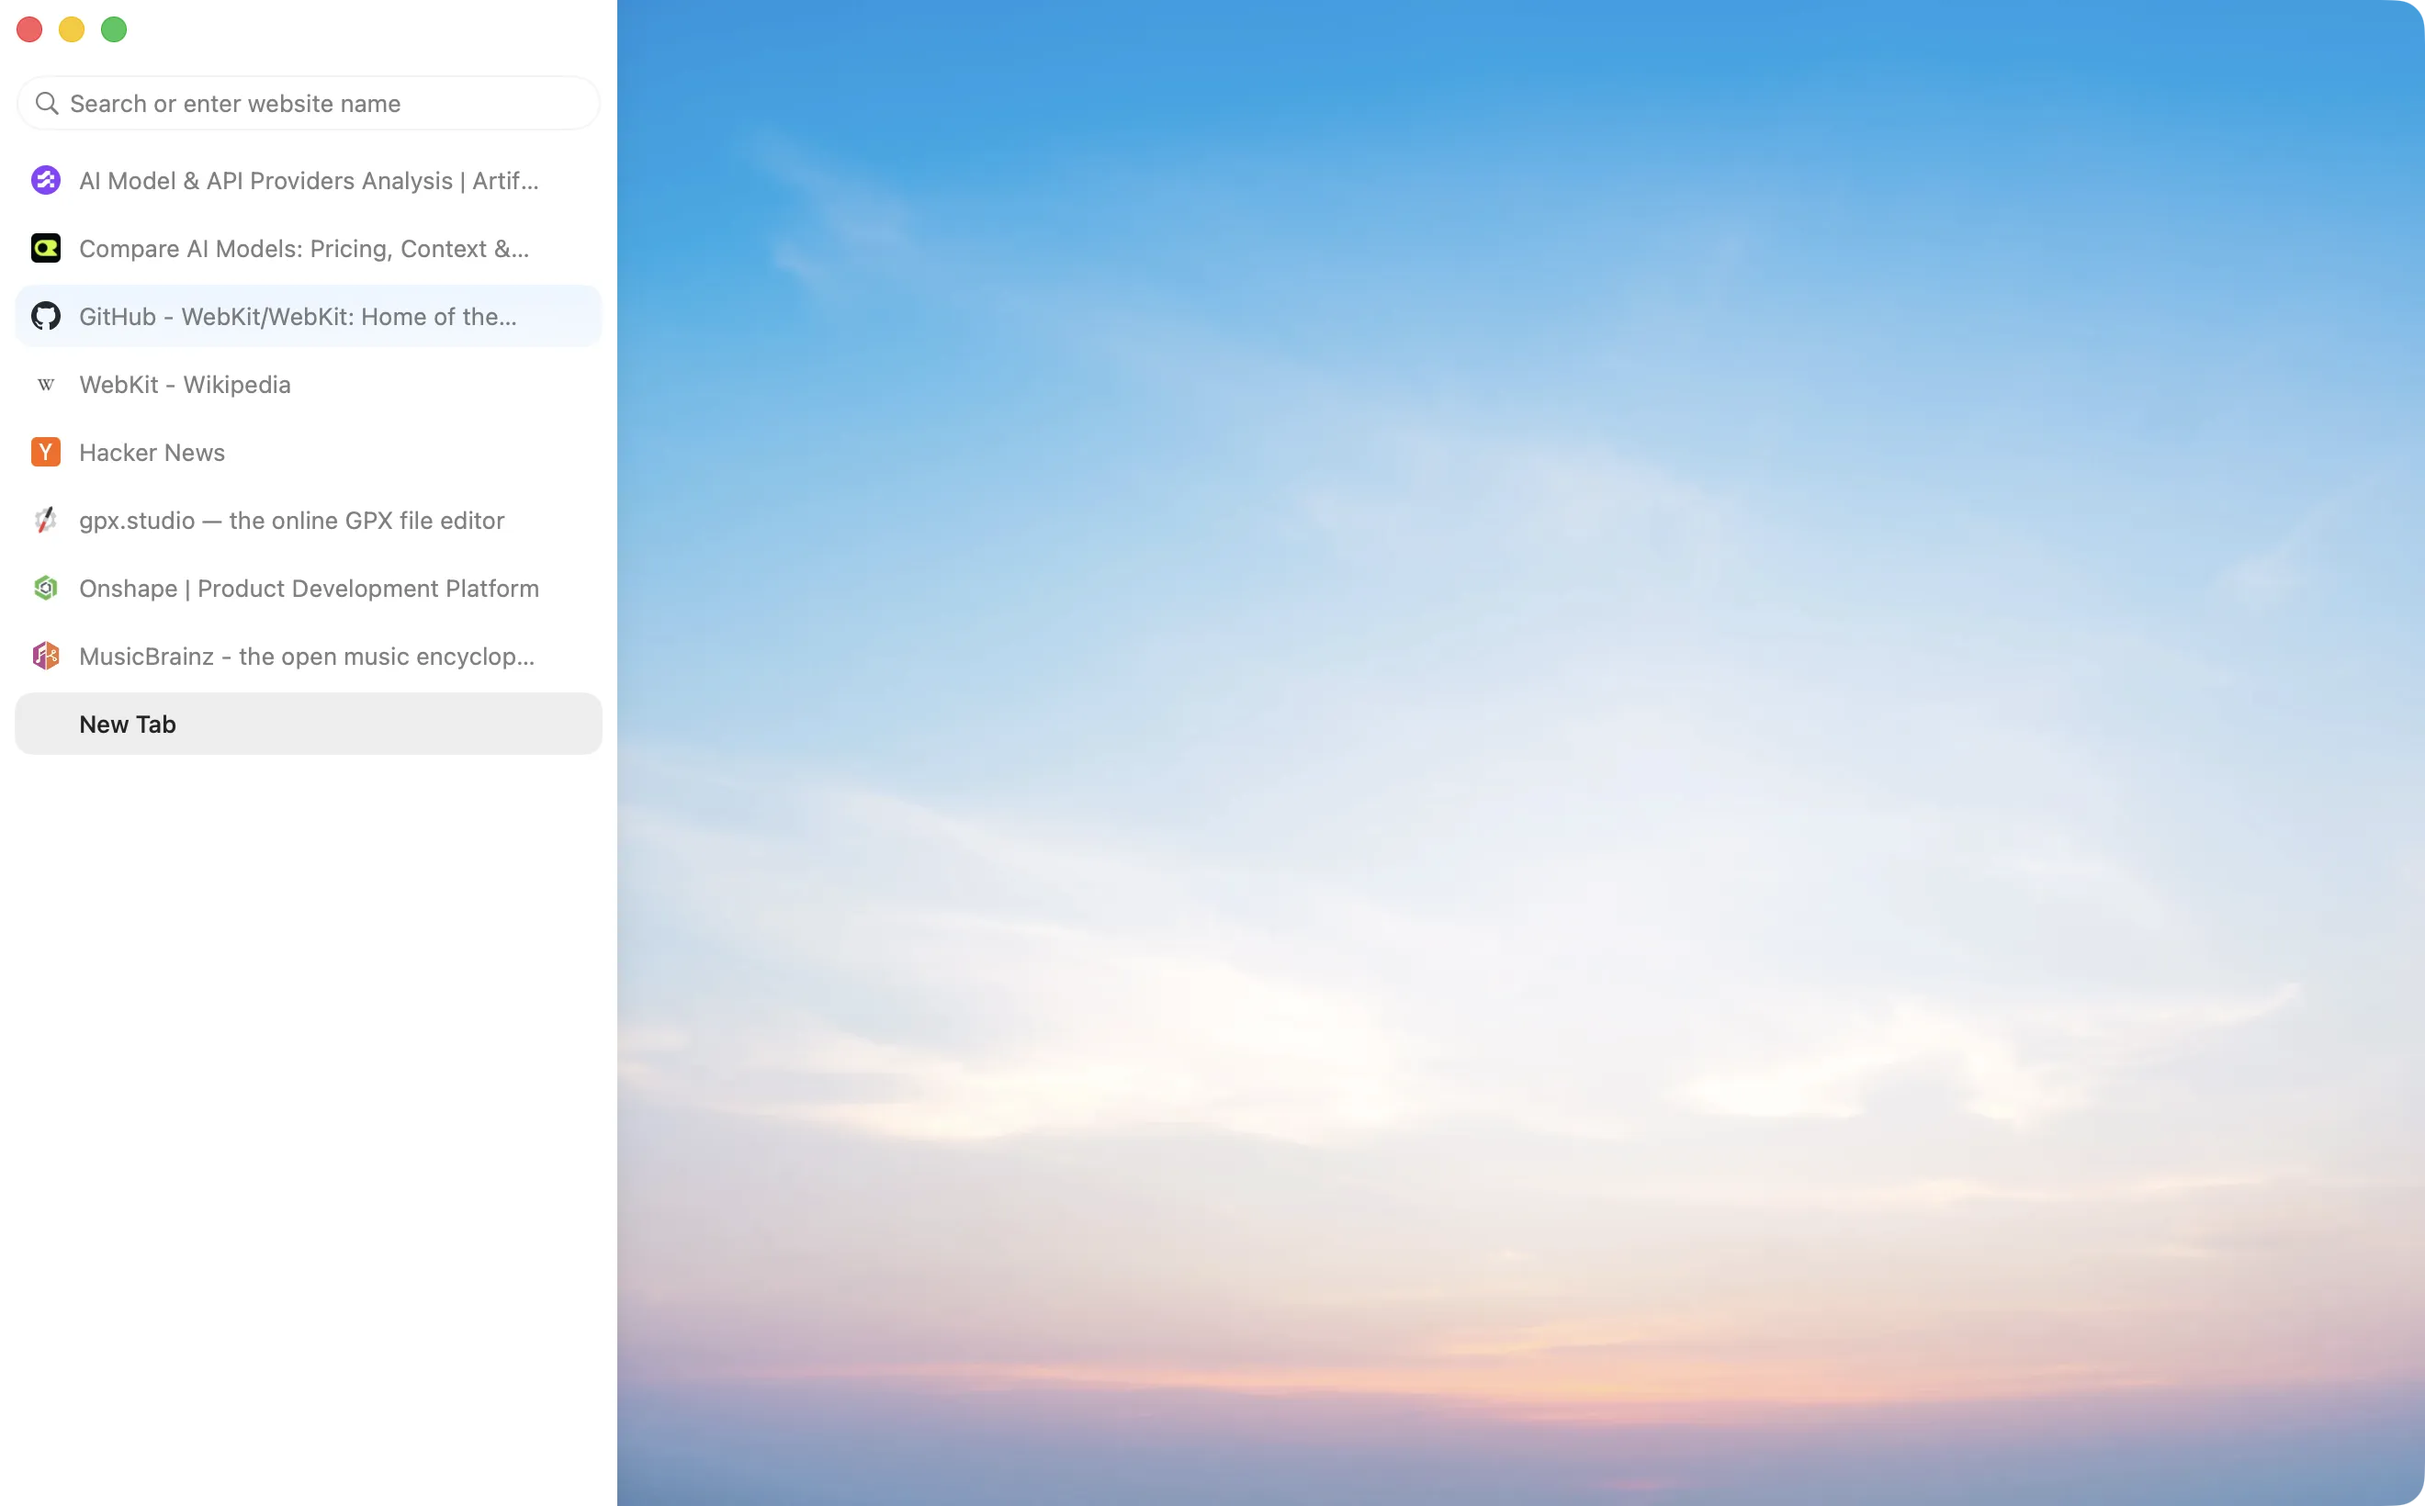
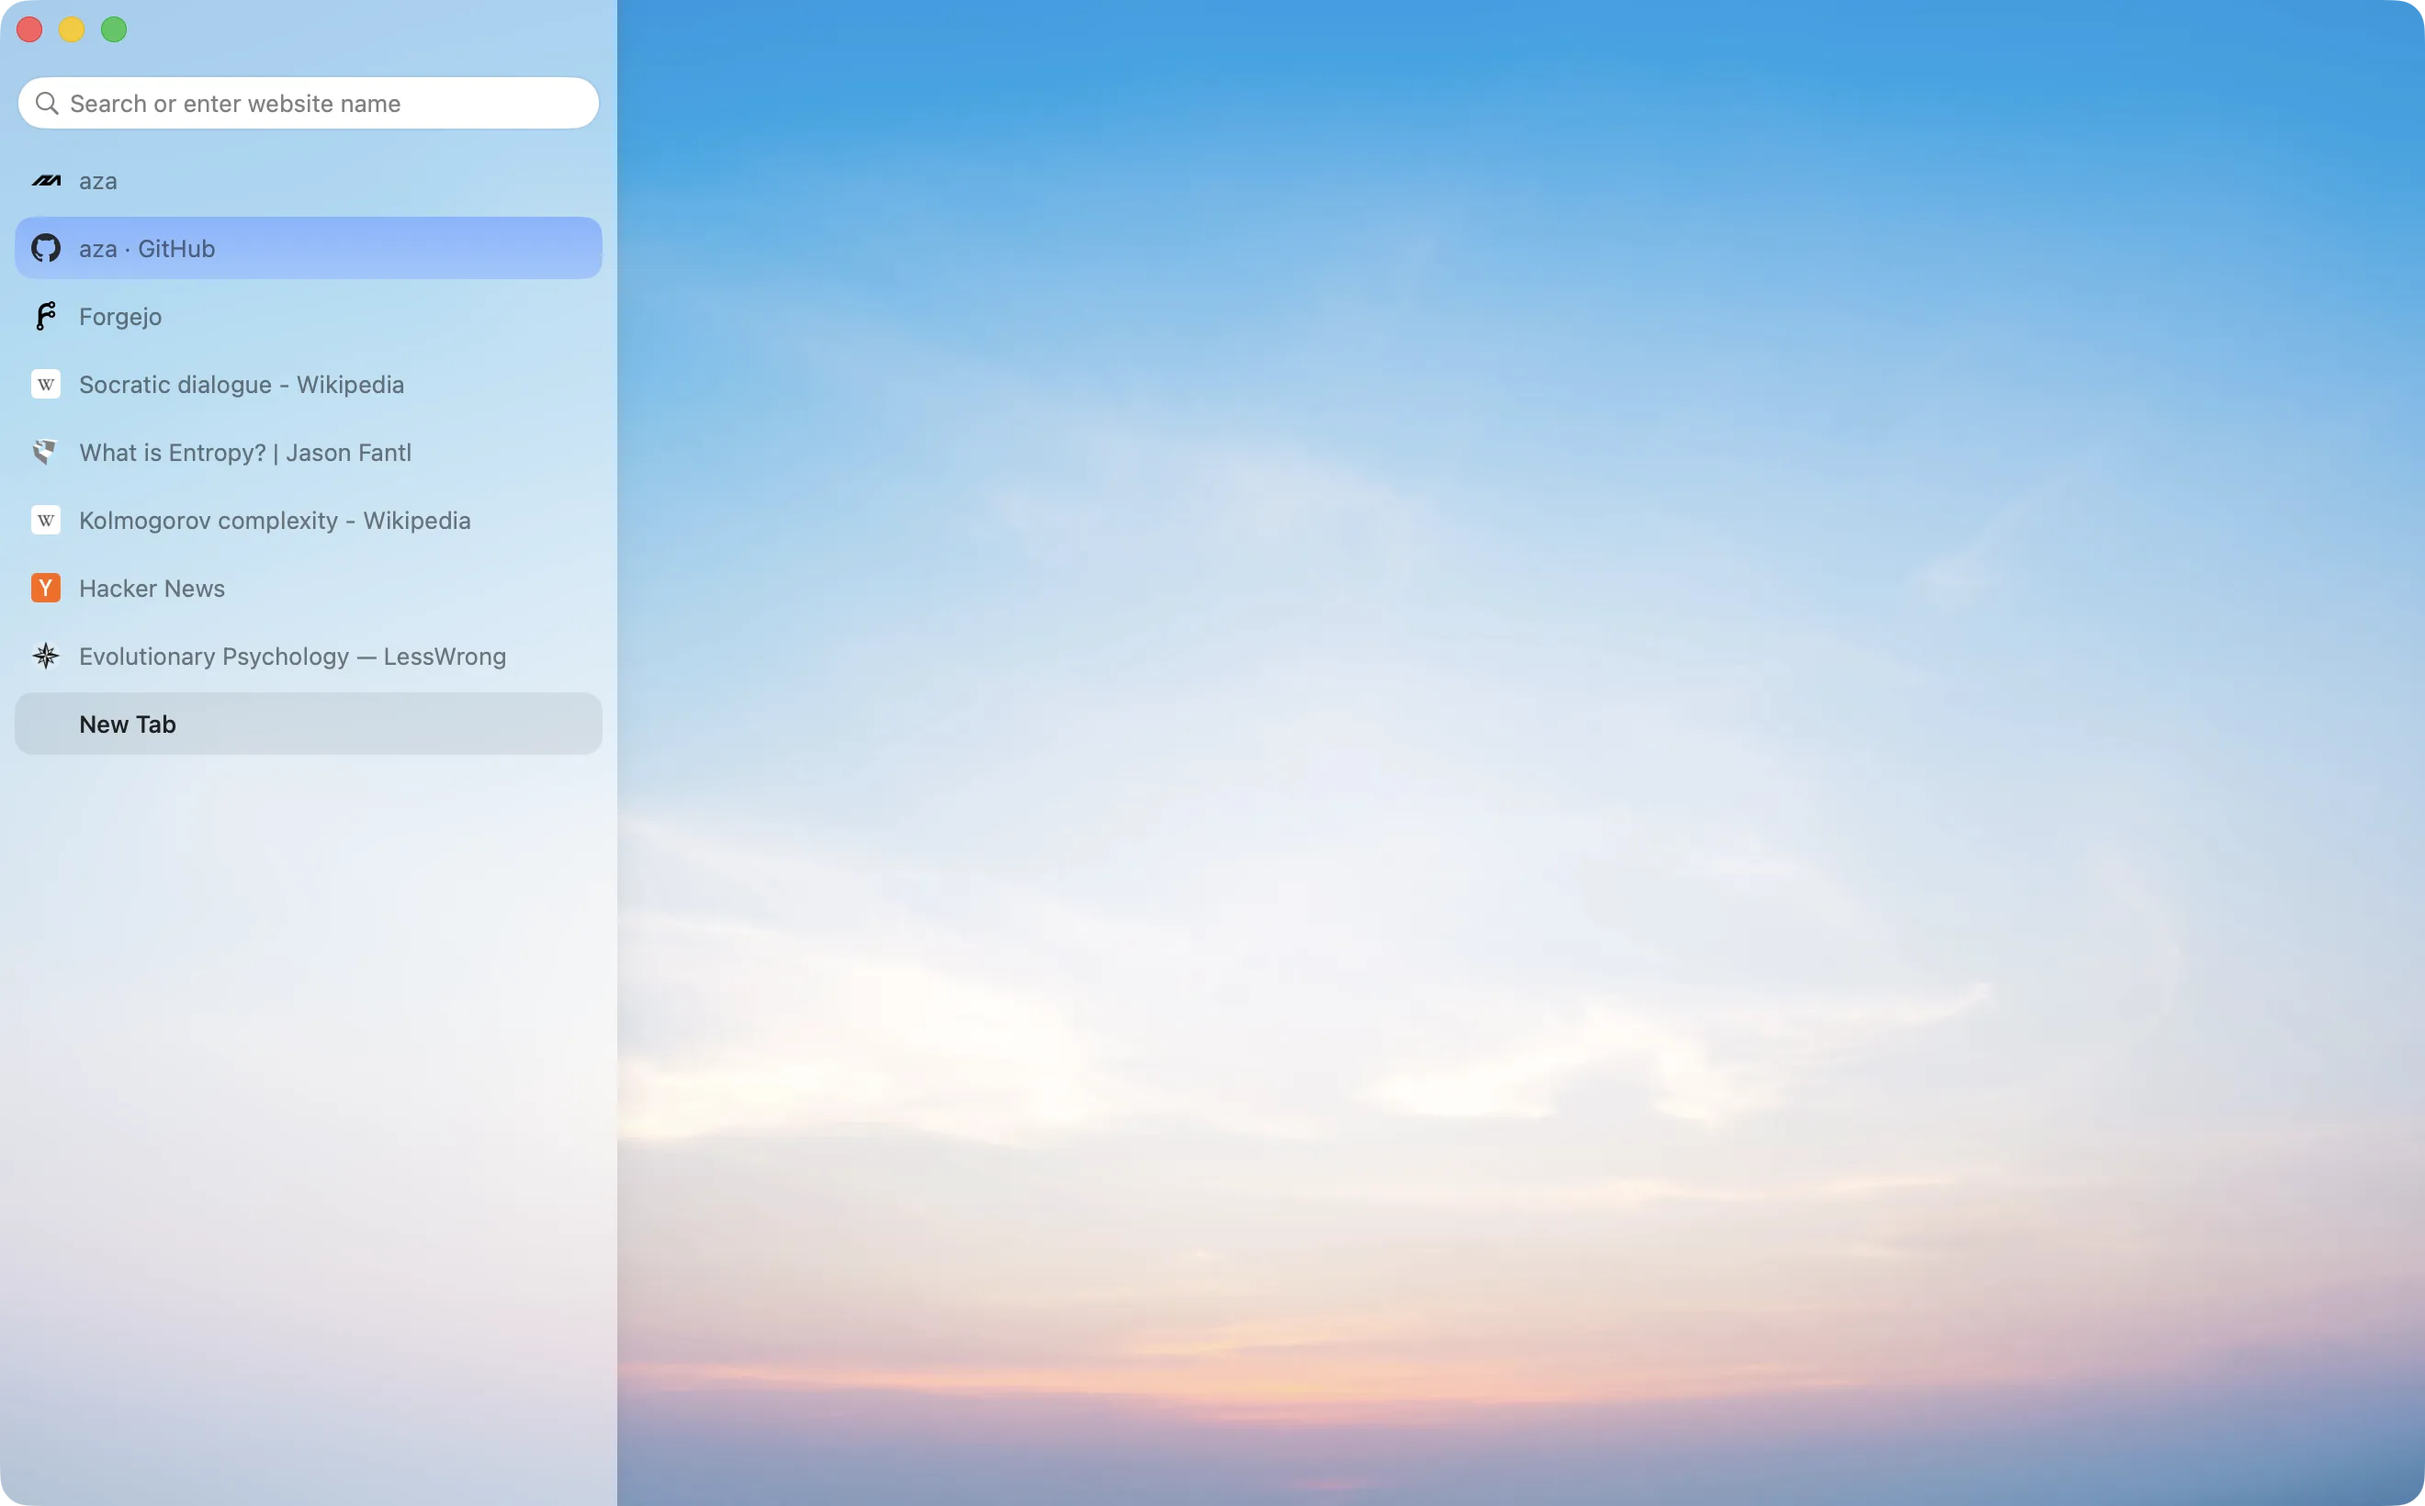
Stronger Persist blue; screenshot settings live in the script
A light-mode Persist tab was so pale it read as white, and over a
sky-blue Fill picture it matched the sidebar. It is a clear blue now.

The screenshot's appearance and Fill are settings at the top of
release/screenshot.sh, beside the tabs, instead of arguments. Its window
is made active, so the window buttons are in colour. LICENSE is excluded
from the Swift target.

diff --git a/App/TabList.swift b/App/TabList.swift
@@ -336,8 +336,8 @@ final class TabCell: NSTableCellView {
             let colors: [NSColor] = dark
                 ? (isSelected ? [NSColor(red: 0.16, green: 0.30, blue: 0.50, alpha: 1), NSColor(red: 0.12, green: 0.25, blue: 0.44, alpha: 1)]
                               : [NSColor(red: 0.12, green: 0.22, blue: 0.36, alpha: 1), NSColor(red: 0.10, green: 0.19, blue: 0.32, alpha: 1)])
-                : (isSelected ? [NSColor(red: 0.83, green: 0.91, blue: 1, alpha: 1), NSColor(red: 0.89, green: 0.94, blue: 1, alpha: 1)]
-                              : [NSColor(red: 0.925, green: 0.962, blue: 1, alpha: 1), NSColor(red: 0.955, green: 0.977, blue: 1, alpha: 1)])
+                : (isSelected ? [NSColor(red: 0.36, green: 0.60, blue: 1, alpha: 1), NSColor(red: 0.45, green: 0.67, blue: 1, alpha: 1)]
+                              : [NSColor(red: 0.50, green: 0.71, blue: 1, alpha: 1), NSColor(red: 0.60, green: 0.78, blue: 1, alpha: 1)])
             Motion.set(sky, "colors", colors.map(\.cgColor), duration: 0.25)
             Motion.set(sky, "opacity", Float(isPersist ? 1 : 0), duration: 0.25)
         }

diff --git a/Tests/SelfTest.swift b/Tests/SelfTest.swift
@@ -652,8 +652,10 @@ enum SelfTest {
             }
             if !loaded { NSLog("Browser screenshot: some tabs hadn't loaded: \(tabs.filter(\.isLoading).compactMap(\.url))") }
             window.makeFirstResponder(nil)
-            // The active window, so its buttons are in colour.
-            NSApp.activate()
+            // The active window, so its buttons are in colour. The plain
+            // activate() is only a request, which macOS turns down while
+            // the terminal that started the script is in front.
+            NSApp.activate(ignoringOtherApps: true)
             window.makeKeyAndOrderFront(nil)
             _ = await until("the window to be key", seconds: 5) { window.isKeyWindow }
             let saved = await capture(browser, to: URL(fileURLWithPath: out))

diff --git a/Package.swift b/Package.swift
@@ -21,7 +21,7 @@ let package = Package(
             name: "Browser",
             dependencies: ["BrowserKit"],
             path: ".",
-            exclude: ["BrowserKit", "engine", "release", "build", "README.md", "SPEC.md", "VERSION", "build.sh", "Tests/engine.py"],
+            exclude: ["BrowserKit", "engine", "release", "build", "README.md", "SPEC.md", "LICENSE", "VERSION", "build.sh", "Tests/engine.py"],
             sources: ["App", "Tests"],
             swiftSettings: [.swiftLanguageMode(.v5)]
         ),

diff --git a/README.md b/README.md
@@ -1,10 +1,13 @@
-<p align="center"><img src="release/icon.png" width="128" alt="Browser"></p>
+<div align="center">
+    <img src="release/icon.png"
+        title="Browser" alt="Browser logo" width="120" />
+    <h1>Aza Browser</h1>
+    <p>
+        A private and opinionated macOS browser
+    </p>
+</div>
 
-# Browser
-
-A private macOS browser on its own build of WebKit.
-
-![Browser with tabs open and the new tab page](release/screenshot.webp)
+![Browser](release/screenshot.webp)
 
 ## Engine patches
 
@@ -81,7 +84,7 @@ It logs PASS/FAIL per check, ends with a count and quits, exiting non-zero if an
 
 ## Screenshot
 
-`release/screenshot.sh` redraws `release/screenshot.webp` (quality 80) from a debug build: the tabs listed in the script load from the internet into a throwaway data folder, and the new tab page is in front. `release/screenshot.sh dark` is the dark version; `FILL=1` puts the picture behind the sidebar too.
+`release/screenshot.sh` redraws `release/screenshot.webp` (quality 80) from a debug build: the tabs listed in the script load from the internet into a throwaway data folder, and the new tab page is in front. The settings at the top of the script choose the tabs, the Persist tab, light or dark, and Fill.
 
 ## Licence
 
